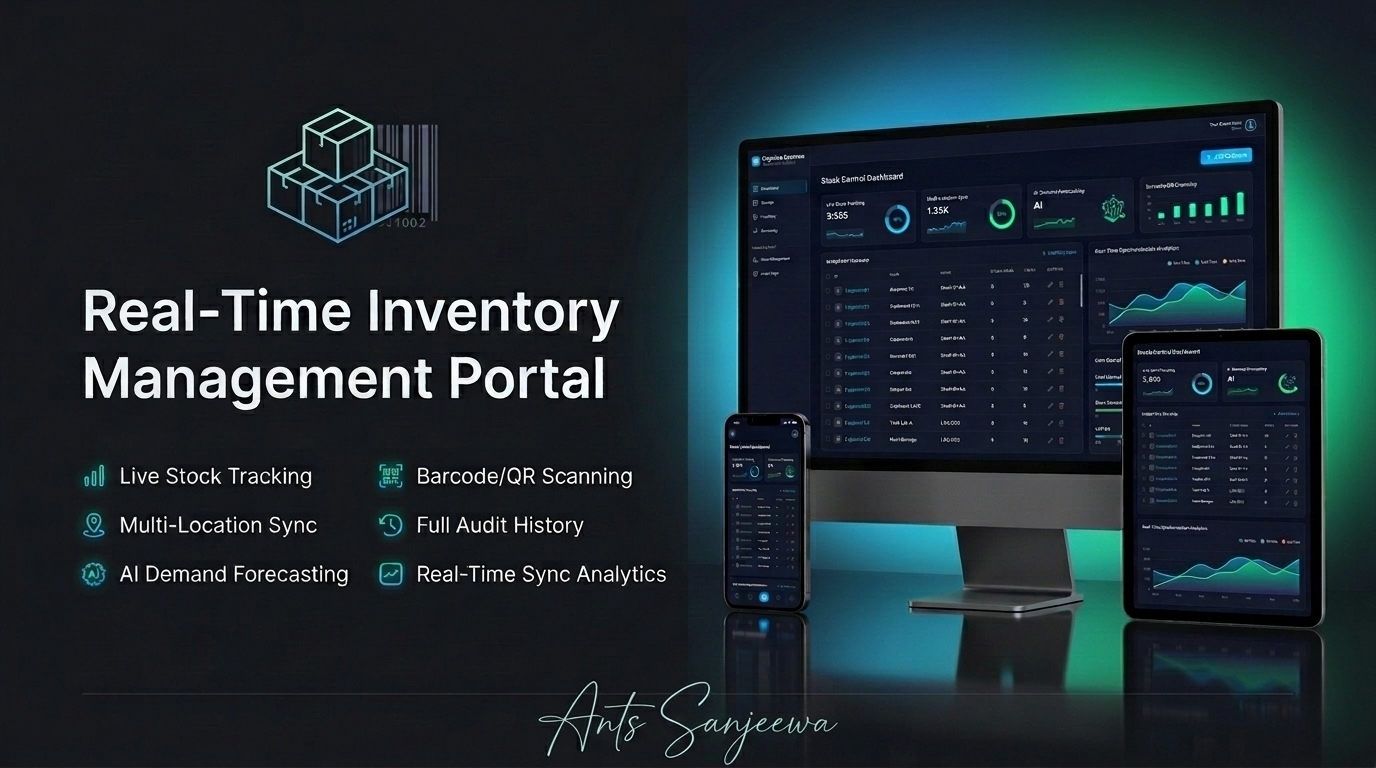
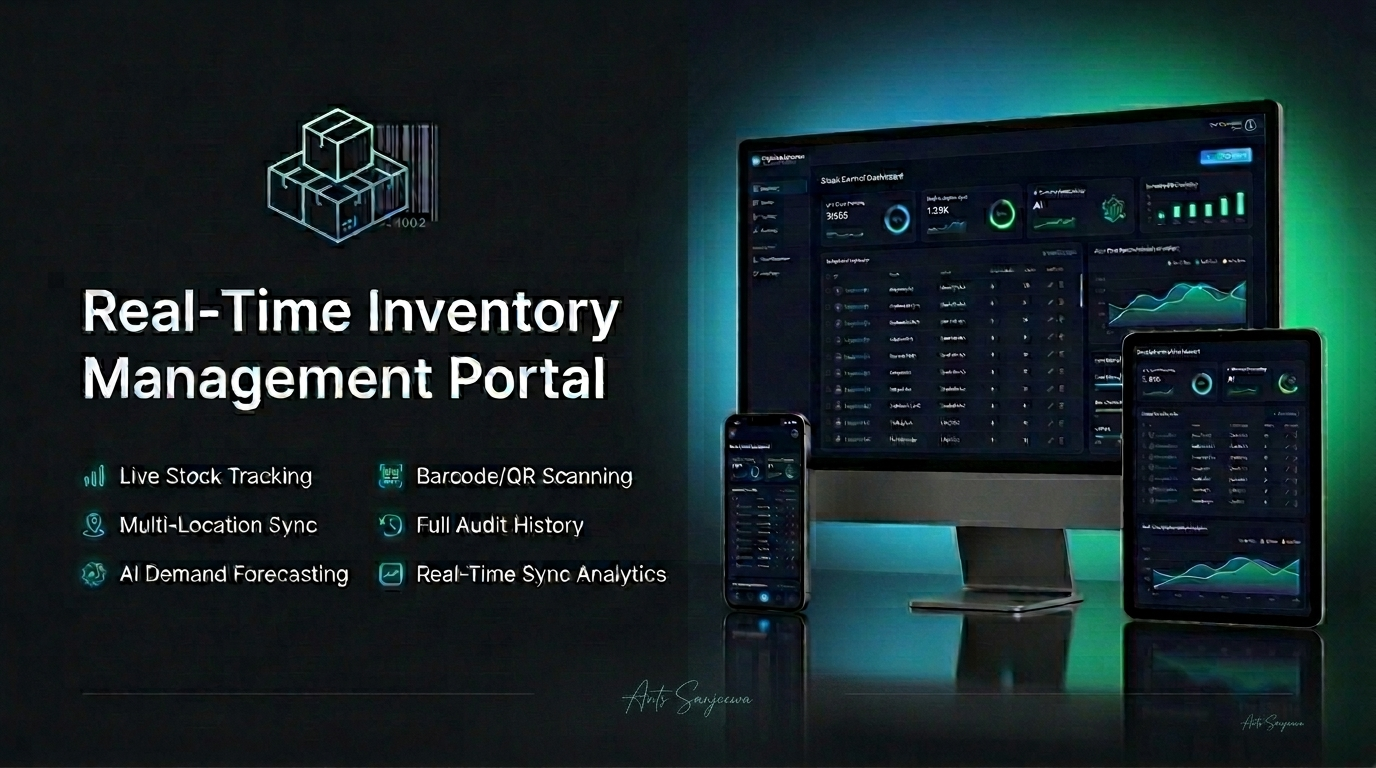
add: few more project

diff --git a/src/data/projectsData.ts b/src/data/projectsData.ts
@@ -129,11 +129,133 @@ const donationManageApp: Project = {
   ],
 }
 
+const hospotoApp: Project = {
+  title: 'Hospoto — Job Board Platform',
+  description:
+    'A specialized full-stack recruitment platform and job board tailored for the hospitality industry, connecting employers with top-tier talent through smart job matching, interactive company profiles, and seamless application workflows.',
+  coverImage: '/images/projects/project_007.jpeg',
+  link: 'https://hospoto.com.au/',
+  role: 'Backend Software Engineer (PHP)',
+  isPublic: false,
+  highlights: [
+    'Engineered a high-performance, responsive job portal featuring dual-dashboard architectures for both employers (job posters) and candidates (job seekers).',
+    'Developed an advanced filtering and search subsystem enabling users to query jobs efficiently by role type, location, hospitality sectors, and experience levels.',
+    'Built a secure resume management and job application processing workflow with real-time application status tracking.',
+    'Designed a clean, modern, and mobile-first user interface utilizing Vue.js and Tailwind CSS, ensuring smooth navigation for on-the-go shift workers.',
+    'Optimized backend RESTful APIs using Laravel to handle thousands of concurrent queries, ensuring fast page load times and seamless state updates.',
+  ],
+  tags: [Techs.laravel, Techs.blade, Techs.mysql, Techs.rest_api, Techs.nginx],
+}
+
+const parentSeekApp: Project = {
+  title: 'Parent Seeking — Social Platform',
+  description:
+    'A secure, features-rich online dating and matchmaking web application specifically designed for single parents to connect, chat, and build meaningful relationships within a trusted community.',
+  coverImage: '/images/projects/project_008.jpeg',
+  link: 'https://www.parentseeking.com.au',
+  role: 'Backend Software Engineer (PHP)',
+  isPublic: false,
+  highlights: [
+    'Engineered a dynamic profile matching discovery engine enabling users to filter connections by precise location, age, and personalized affinity interests.',
+    'Integrated Firebase Realtime Database to deliver a high-performance, instant in-app messaging and real-time chatting experience.',
+    'Implemented secure, low-latency audio and video calling solutions within the browser using Agora SDK web integration.',
+    'Developed a highly responsive and lightweight frontend architecture using Laravel Blade templates integrated with Tailwind CSS for rapid server-side rendering.',
+    'Implemented secure user interaction validation and session protection tools to guarantee maximum privacy and platform integrity.',
+  ],
+  tags: [
+    Techs.laravel,
+    Techs.blade,
+    Techs.mysql,
+    Techs.agora,
+    Techs.firebase,
+    Techs.rest_api,
+    Techs.nginx,
+  ],
+}
+
+const UTICApp: Project = {
+  title: 'UTIC — Service & Logistics Platform',
+  description:
+    'An enterprise-grade on-demand service fulfillment and logistics ecosystem in Australia, powered by a robust centralized backend handling high-concurrency mobile application APIs, real-time tracking, and automated service matching.',
+  coverImage: '/images/projects/project_010.jpeg',
+  link: 'https://www.utic.com.au/',
+  role: 'Backend Software Engineer (PHP)',
+  isPublic: false,
+  highlights: [
+    'Architected and optimized high-performance RESTful APIs using Laravel to power the native iOS and Android mobile applications seamlessly.',
+    'Engineered a smart, AI-driven service matching engine on the backend to dynamically connect users with optimal service providers based on real-time parameters.',
+    'Designed and implemented complex relational database schemas using MySQL to guarantee data integrity, fast querying, and secure transaction logging.',
+    'Deployed and managed the core application infrastructure on AWS, ensuring high availability, continuous uptime, and secure data storage workflows.',
+    'Developed a secure administration dashboard utilizing Laravel Blade templates for internal dispatchers, corporate managers, and transparent pricing controls.',
+  ],
+  tags: [Techs.laravel, Techs.blade, Techs.mysql, Techs.aws, Techs.firebase, Techs.rest_api],
+}
+
+const AquaticTribeApp: Project = {
+  title: 'Aquatic Tribe',
+  description:
+    'A comprehensive niche e-commerce and social community marketplace tailored for aquarium hobbyists and aquatic life enthusiasts, featuring streamlined product catalogs, secure checkout pipelines, and interactive user interactions.',
+  coverImage: '/images/projects/project_009.jpeg',
+  link: 'https://www.aquatictribe.com/',
+  role: 'Full-Stack Developer',
+  isPublic: false,
+  highlights: [
+    'Engineered a dynamic and high-performance e-commerce ecosystem capable of managing extensive aquatic product variations, livestock listings, and custom store profiles.',
+    'Integrated secure and optimized online payment processing gateways alongside seamless automated transaction confirmation workflows.',
+    'Developed an advanced filtering mechanism allowing hobbyists to query items and aquatic species precisely by categories, pricing, and environmental compatibility tags.',
+    'Designed a visually stunning, responsive, and marine-themed modern user interface utilizing Tailwind CSS to maximize user retention and brand consistency.',
+    'Optimized core database structures and state management processes to deliver rapid page load speeds during high-traffic product drops and member discussions.',
+  ],
+  tags: [Techs.laravel, Techs.blade, Techs.mysql],
+}
+
+const ExpenseTrackerApp: Project = {
+  title: 'Expense Tracker App',
+  description:
+    'A cross-platform mobile application built as a hobby project to simplify personal finance tracking, featuring secure user authentication, instant cloud data synchronization, and dynamic expense categorizations.',
+  coverImage: '/images/projects/project_011.jpeg',
+  link: 'https://github.com/antssanjeewa/smart_expense_tracker',
+  role: 'Mobile Developer',
+  isPublic: true,
+  highlights: [
+    'Developed a cross-platform mobile application for Android and iOS using Flutter and Dart to manage daily personal finances.',
+    'Integrated Supabase as a modern Backend-as-a-Service (BaaS) for secure user authentication and real-time cloud data storage.',
+    'Designed structured PostgreSQL database tables within Supabase to manage user transactions, profiles, and custom financial categories.',
+    'Implemented clean state management and repository patterns to ensure a fast, reactive, and responsive mobile user interface.',
+  ],
+  tags: [Techs.flutter, Techs.supabase],
+}
+const PeriodicApp: Project = {
+  title: 'Periodic Table App',
+  description:
+    'An interactive, educational mobile application built to explore the chemical elements of the periodic table, providing structured data, atomic properties, and a highly visual chemical interface.',
+  coverImage: '/images/projects/project_012.jpeg',
+  link: 'https://github.com/antssanjeewa/periodic_table_app',
+  role: 'Mobile Developer',
+  isPublic: true,
+  highlights: [
+    'Built an interactive, visually rich mobile application showcasing the periodic table of elements using Flutter.',
+    'Designed a responsive and scalable grid layout that flawlessly aligns and displays chemical elements across various mobile screen sizes.',
+    'Implemented seamless navigation and local state handling to allow users to instantly tap elements and inspect detailed atomic properties and configurations.',
+    'Focused on fluid UI animations and semantic color-coding to group chemical series (e.g., noble gases, alkali metals) intuitively.',
+  ],
+  tags: [Techs.flutter],
+}
+
 export const projects: Project[] = [
   SermonProject,
-  bookShopApp,
-  donationManageApp,
+  UTICApp,
+  parentSeekApp,
+
+  hospotoApp,
   OnlineProject,
+  donationManageApp,
+
+  bookShopApp,
+  AquaticTribeApp,
   vesakCardApp,
+
   InventoryApp,
+  ExpenseTrackerApp,
+  PeriodicApp,
 ]

diff --git a/src/data/techsData.ts b/src/data/techsData.ts
@@ -17,6 +17,10 @@ import {
   Box, // Containers (Docker)
   GitBranch, // Version Control (Git)
   FileCode, // Runtime / Environments (Node.js)
+  Layout,
+  FlameIcon,
+  Video,
+  Smartphone,
 } from 'lucide-vue-next'
 
 export const Techs = {
@@ -32,6 +36,12 @@ export const Techs = {
     label: 'Laravel',
     icon: Flame,
     colorClass: 'group-hover:text-[#FF2D20]', // Official Laravel Red
+  },
+  blade: {
+    id: 'blade',
+    label: 'Blade',
+    icon: Layout,
+    colorClass: 'group-hover:text-[#FF2D20]',
   },
   typescript: {
     id: 'typescript',
@@ -70,6 +80,12 @@ export const Techs = {
     label: 'Tailwind CSS',
     icon: Wind,
     colorClass: 'group-hover:text-[#06B6D4]', // Official Tailwind Cyan
+  },
+  flutter: {
+    id: 'flutter',
+    label: 'Flutter',
+    icon: Smartphone,
+    colorClass: 'group-hover:text-[#02569B]',
   },
 
   // --- Databases & Caching ---
@@ -164,5 +180,23 @@ export const Techs = {
     label: 'Node.js',
     icon: FileCode,
     colorClass: 'group-hover:text-[#339933]', // Official Node Green
+  },
+  firebase: {
+    id: 'firebase',
+    label: 'Firebase DB',
+    icon: FlameIcon,
+    colorClass: 'group-hover:text-[#FFCA28]',
+  },
+  supabase: {
+    id: 'supabase',
+    label: 'Supabase DB',
+    icon: FlameIcon,
+    colorClass: 'group-hover:text-[#FFCA28]',
+  },
+  agora: {
+    id: 'agora',
+    label: 'Agora SDK',
+    icon: Video,
+    colorClass: 'group-hover:text-[#3AB0FF]',
   },
 }

diff --git a/src/components/sections/Projects.vue b/src/components/sections/Projects.vue
@@ -149,11 +149,7 @@ const closeModal = () => {
         @click="showAll = !showAll"
         class="px-6 py-2.5 border border-border rounded-lg font-mono text-sm font-medium hover:bg-muted/50 text-foreground transition-all cursor-pointer shadow-sm hover:border-primary/30"
       >
-        {{
-          showAll
-            ? 'Show Less'
-            : `View More (${projectsList.length - INITIAL_COUNT} Older Projects)`
-        }}
+        {{ showAll ? 'Show Less' : `View More (${projectsList.length - INITIAL_COUNT})` }}
       </button>
     </div>
 

diff --git a/src/components/sections/Hero.vue b/src/components/sections/Hero.vue
@@ -50,7 +50,7 @@ const stats = [
         <div class="flex flex-wrap gap-4 mb-12">
           <a
             href="#projects"
-            class="px-6 py-3 bg-primary border border-border dark:bg-primary/50 text-primary-foreground font-semibold rounded-lg hover:opacity-90 transition-all shadow-lg shadow-primary/10 hover:border-primary/40 hover:shadow-primary/25 hover:-translate-y-0.5 active:scale-95"
+            class="px-6 py-3 bg-primary border border-border dark:bg-primary/60 text-primary-foreground font-semibold rounded-lg hover:opacity-90 transition-all shadow-lg shadow-primary/10 hover:border-primary/40 hover:shadow-primary/25 hover:-translate-y-0.5 active:scale-95"
           >
             View My Work ↓
           </a>